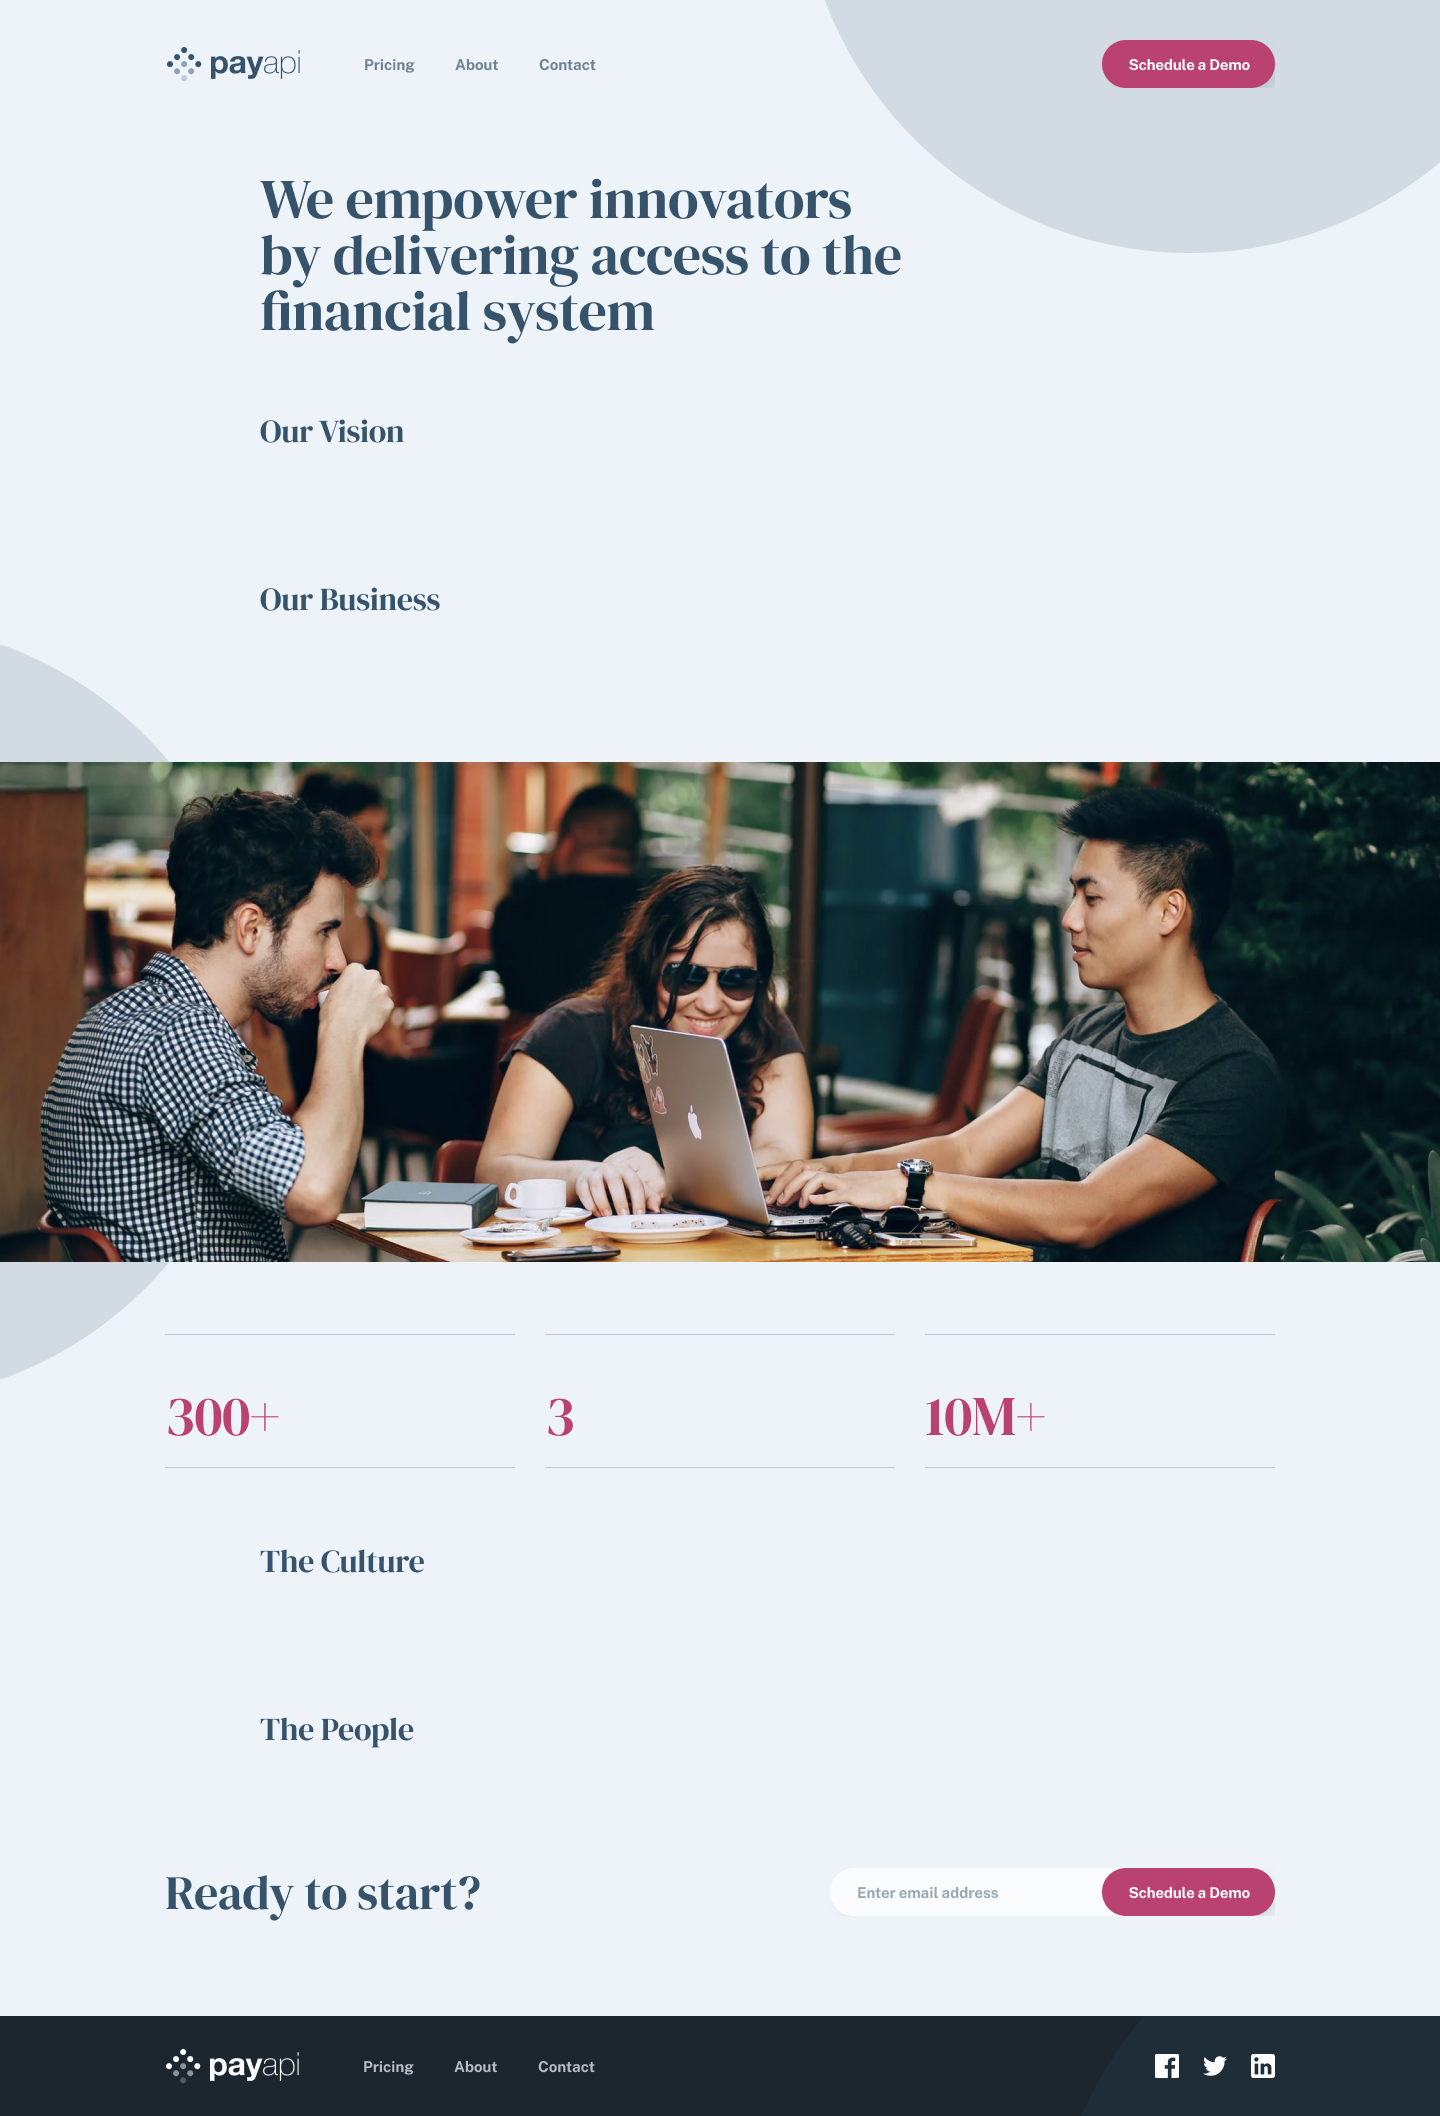
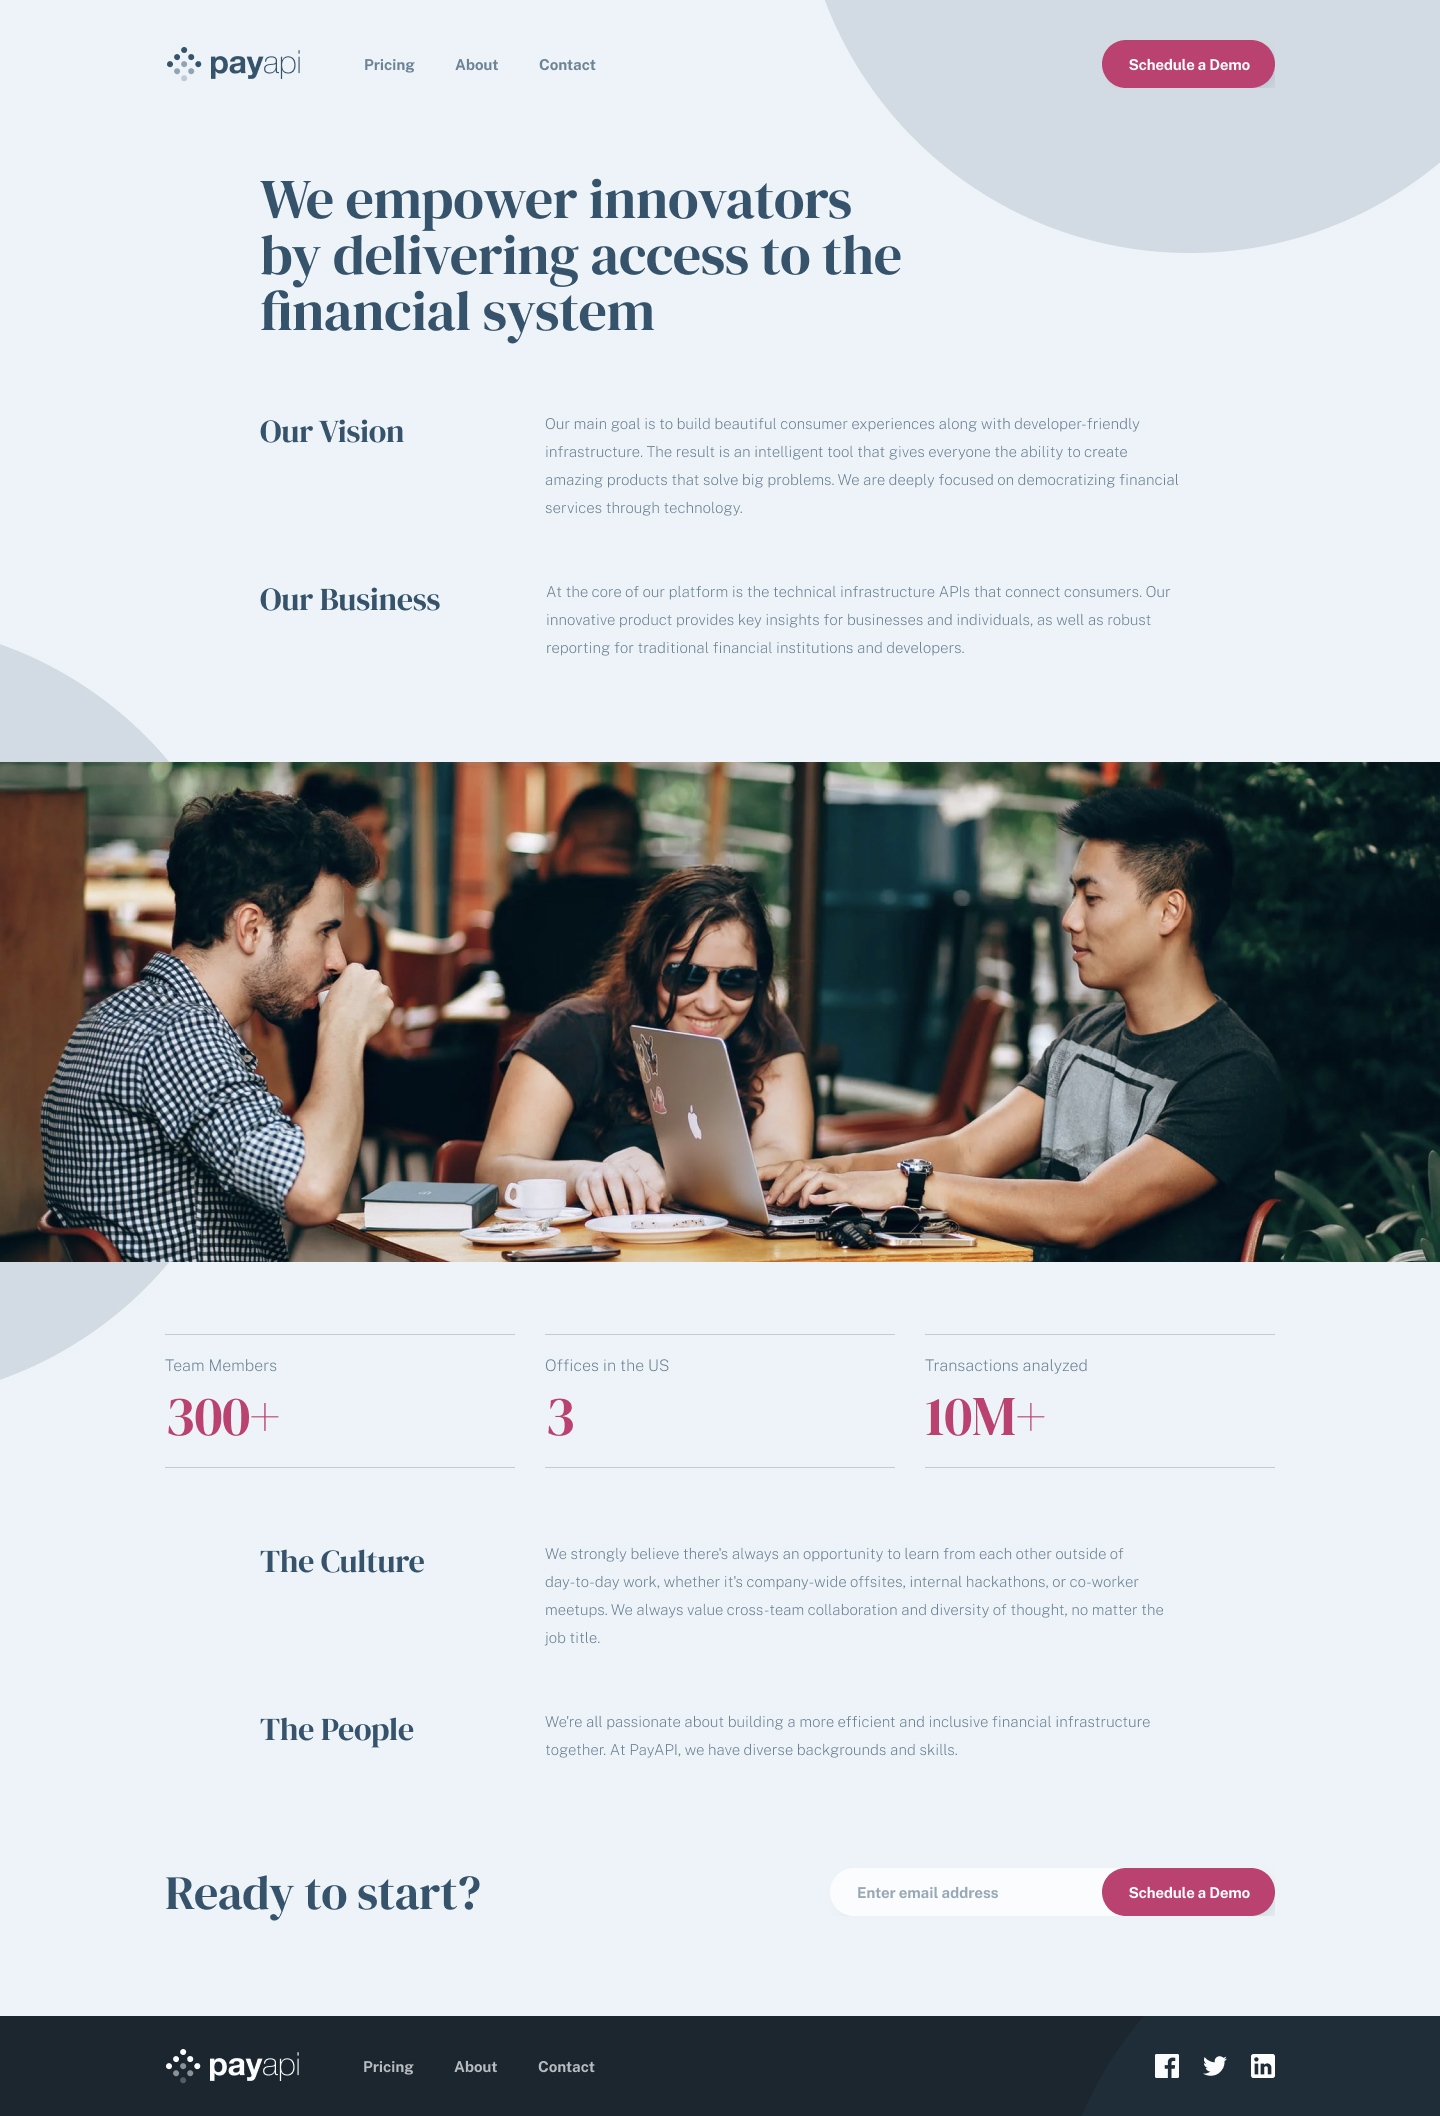
finish style for mobile

diff --git a/about.html b/about.html
@@ -56,9 +56,81 @@
     <!-- main section -->
     <main>
 
+        <section>
+            <div class="top-content">
+                <h1>We empower innovators
+                    by delivering access to the financial system</h1>
+                <div class="top">
+                    <h2>our vision</h2>
+                    <p>Our main goal is to build beautiful consumer experiences along with developer-friendly
+                        infrastructure. The result is an intelligent tool that gives everyone the ability to create
+                        amazing products that solve big problems. We are deeply focused on democratizing financial
+                        services through technology.
+                    </p>
+                </div>
+                <div class="top">
+                    <h2>our business</h2>
+                    <p>
+                        At the core of our platform is the technical infrastructure APIs that connect consumers. Our
+                        innovative product provides key insights for businesses and individuals, as well as robust
+                        reporting for traditional financial institutions and developers.
+                    </p>
+                </div>
+            </div>
+        </section>
 
+        <!-- mid section -->
+        <section>
+            <div class="mid-content">
+                <picture>
+                    <source media="(min-width: 57.5rem)" srcset="./assets/image-team-members-desktop.jpg">
+                    <source media="(min-width: 48rem)" srcset="./assets/image-team-members-tablet.jpg">
+                    <img src="./assets/image-team-members-mobile.jpg" alt="">
+                </picture>
+                <div class="mid-text">
+                    <div class="text">
+                        <div class="line"></div>
+                        <span>Team Members</span>
+                        <h3>300+</h3>
+                    </div>
 
+                    <div class="text">
+                        <span>Offices in the US</span>
+                        <h3>3</h3>
+                    </div>
 
+                    <div class="text">
+                        <span>Transactions analyzed</span>
+                        <h3>10m+</h3>
+                        <div class="line"></div>
+                    </div>
+                </div>
+            </div>
+        </section>
+        <!-- end mid section -->
+
+        <!-- bottom section -->
+        <section>
+            <div class="bottom-content">
+                <div class="bottom">
+                    <h4>the culture</h4>
+                    <p>
+                        We strongly believe there's always an opportunity to learn from each other outside of day-to-day
+                        work, whether it's company-wide offsites, internal hackathons, or co-worker meetups. We always
+                        value cross-team collaboration and diversity of thought, no matter the job title.
+                    </p>
+                </div>
+
+                <div class="bottom">
+                    <h4>the people</h4>
+                    <p>
+                        We're all passionate about building a more efficient and inclusive financial infrastructure
+                        together. At PayAPI, we have diverse backgrounds and skills.
+                    </p>
+                </div>
+            </div>
+        </section>
+        <!-- end bottom section -->
 
 
         <!-- ready section -->

diff --git a/css/about.css b/css/about.css
@@ -28,3 +28,95 @@
      --fw-400: 400;
      --fw-700: 700;
  }
+
+/* top section */
+main {
+    background-color: var(--link-water-white);
+}
+
+.top-content {
+    text-align: center;
+    padding: 5rem 1rem;
+}
+
+.top-content h1 {
+    font-size: var(--fs-v4-400);
+    color: var(--san-juan-blue);
+}
+
+.top h2 {
+    font-size: var(--fs-v6-400);
+    padding: 1.5rem 0;
+    color: var(--san-juan-blue);
+    text-transform: capitalize;
+}
+
+.top p {
+    color: var(--san-juan-blue);
+    opacity: 80%;
+}
+/* end top section */
+
+/* mid section */
+.mid-content {
+    text-align: center;
+}
+
+.mid-text {
+    padding: 2rem 0;
+}
+
+.text {
+    padding: 1rem 0;
+}
+
+.text .line {
+    border-top: 1px solid var(--san-juan-blue);
+    opacity: 50%;
+    width: 90%;
+    margin: 0 auto;
+}
+
+.mid-text span {
+    color: var(--san-juan-blue);
+    opacity: 70%;
+}
+
+.mid-text h3 {
+    font-size: var(--fs-v3-400);
+    color: var(--dark-pink);
+    text-transform: uppercase;
+}
+/* end mid content section */
+
+/* botttom content */
+.bottom-content {
+    text-align: center;
+}
+
+.bottom-content h4 {
+    font-size: var(--fs-v6-400);
+    padding: 1.5rem 0;
+    color: var(--san-juan-blue);
+    text-transform: capitalize;
+}
+
+.bottom-content p {
+    color: var(--san-juan-blue);
+    opacity: 70%;
+    padding: 0 1rem;
+}
+/* end bottom section */
+
+
+/* media query for tablet */
+@media only screen and (min-width: 768px) {
+    .top-content h1 {
+        font-size: var(--fs-v3-400);
+        width: 600px;
+        margin: 0 auto;
+    }
+
+    
+
+}

diff --git a/index.html b/index.html
@@ -32,12 +32,14 @@
                         <div class="hamburger">
                             <div class="bar"></div>
                         </div>
-                        <ul>
-                            <li><a href="./pricing.html">Pricing</a></li>
-                            <li><a href="./about.html">About</a></li>
-                            <li><a href="#">Contact</a></li>
-                            <a class="btn" href="#">Schedule a Demo</a>
-                        </ul>
+                        <nav role="navigation">
+                            <ul>
+                                <li><a href="./pricing.html">Pricing</a></li>
+                                <li><a href="./about.html">About</a></li>
+                                <li><a href="#">Contact</a></li>
+                                <a class="btn" href="#">Schedule a Demo</a>
+                            </ul>
+                        </nav>
                     </div>
                     <div class="nav-btn">
                         <a class="btn" href="#">Schedule a Demo</a>

diff --git a/css/style.css b/css/style.css
@@ -43,7 +43,7 @@
 
  img,
  picture {
-    max-width: 100%;
+    width: 100%;
     display: block;
  }
 
@@ -241,7 +241,7 @@
 .hero-container picture{
    z-index: 999;
    margin-top: 1rem;
-   margin-left: 3rem;
+   margin-left: 4.5rem;
    /* display: fixed; */
 }
 
@@ -305,7 +305,6 @@
     border-bottom: 2px solid var(--san-juan-blue);
     cursor: pointer;
  }
-
 /* end hero section */
 
 
@@ -577,13 +576,13 @@
          position: absolute;
          width: 949px;
          height: 949px;
-         left: -1px;
+         left: -100px;
          top: -563px
       }
 
      .hero-container picture {
         z-index: 9;
-        margin-left: 15rem;
+        margin-left: 5rem;
         margin-top: 7rem;
         width: 500px;
         /* margin: 0 auto; */
